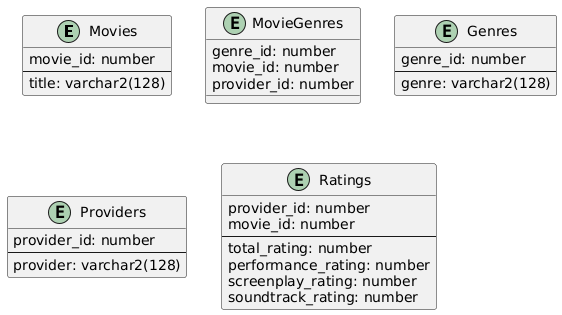
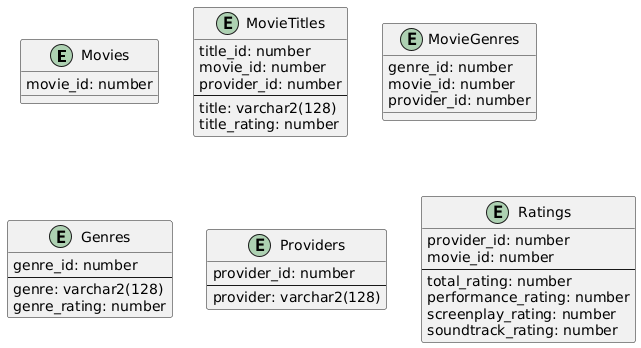
Extending documentation with examples

Changed region(s): [[0.0, 0.5143, 0.9982, 1.0], [0.0302, 0.0, 0.9982, 0.4]]

diff --git a/C-Movie.md b/C-Movie.md
@@ -2,44 +2,46 @@
 Exercise asks to create a design to implement an aggregation platform for movie scores.
 
 ## Requirements
-- Data ingestion needs to be done from multiple Data sources
-- Data is heterogeneous in nature. Each platform defines its own genres and ways of scoring. A normalization process is needed
-- Data sources are offline and online
-- Data needs to be accessible through a REST API
+- Data ingestion needs to be done from multiple Data sources.
+- Data is heterogeneous in nature. Each platform defines its own genres and ways of scoring. A normalization process is needed.
+- Data sources are offline and online.
+- Data needs to be accessible through a REST API.
 
 ## Assumptions
-- Data sources are known and don't have to be dynamically added. In order to add a new data source some measure of coding needs to be done to include the new process
-- Data ingestion happens at intervals defined previously and ingestion tasks can be accommodated to run. No realtime ingestion is done
+- Data sources are known and don't have to be dynamically added. In order to add a new data source some measure of coding needs to be done to include the new process.
+- Data ingestion happens at intervals defined previously and ingestion tasks can be accommodated to run. No realtime ingestion is done.
+- A process exists to score a given title given some parameters as well as the movie categories.
 
 ## Issues to solve
 ### Data Heterogeneousness
 Since data is different for each of the providers, a normalization process is required to finally store the definitive data to a central store.
 
+This normalization process can be done in a streaming fashion by leveraging CDC-enabled processes, or by utilizing streaming services. If this is not desired a scheduled task can also process pending data in batches.
+
 ### Data Ingestion
-Each source needs to define the way data is grabbed and implement a recurrent task that does so and stores the unnormalized data to an intermediate store before proceeding to normalize it.
+Each source needs to define the way data is grabbed and implement a recurrent task that does so and stores the unnormalized data to an intermediate store before proceeding to normalize it. If using a streaming service this intermediate store would be that service.
 
 ### Most Reliable Source
-A matching algorithm needs to be created to select the title and genre 
+The normalizing process can also take care of the scoring of title and genres. Keeping a score in the final relational score allows us to preserve all the data from different providers and only choose the most appropriate when searching for data.
 
 ### Data Serving
-A REST API needs to be created that queries the final curated data to serve it to the final user.
+A REST API needs to be created that queries the final curated data to serve it to the final user. This API will query the final store only, so the data will be eventually consistent with the ingestion process.
 
 ## Design
 The design consist in multiple steps for each of the part of the system.
 
 ### Ingestion phase
 A set of tasks need to be created for each of the different ways of ingesting data. Typically we would need:
-1. A task type that will gather data from a configured REST API
-2. A task type that will fetch a file from a remote location and it's able to process it
+1. A task type that will gather data from a configured REST API.
+2. A task type that will fetch a file from a remote location and it's able to process it.
 
-Each task needs to be configured to run in the proper schedule. If using Python one can use Celery to set it up. Each of these tasks will dump the data in a separate store per provider. For this unstructured and unnormalized data we can use some nosql data store.
+Each task needs to be configured to run in the proper schedule. If using Python one can use Celery to set it up. Each of these tasks will dump the data in a separate store per provider. For this unstructured and unnormalized data we can use a NoSQL data store.
 
 ### Normalization phase
 An ETL process is triggered on data being available on the providers' stores that take the data, sanitize it and load it to our central storage.
 
-This process also takes care of matching each element to a current element in the database and deciding whether the title is more reliable than the current one, overriding it, and whether the genres provided by the source are more reliable than the ones chosen right now and whether that needs amended in the database.
+This process also takes care of matching each element to a current element in the database and scores the title and genres based on the scoring algorithm aforementioned. The data is then stored in the final data store created using teh following schema.
 
-Proposed schema:
 ![Schema](schema.png)
 
 Ratings table is normalized using the c-rating algorithm.
@@ -56,4 +58,17 @@ Such query can include genres, as defined in the Genres table as well as by titl
 #### Caching
 Since the API layer will eventually query the application database and aggregate the scores per provider a high number of times per second it is advised that a caching layer is implemented.
 
-Since flexible queries may be required, an Elasticache layer may be advisable, where an index can be updated with the pre-calculated total score per movie, as well as its genres.
+Since flexible queries may be required, an Elasticache layer may be advisable, where an index can be updated with the pre-calculated total score per movie, as well as its genres and most appropriate title.
+
+## Example HLD for AWS
+Below is an example of how the architecture could look like utilizing AWS serverless resources.
+
+![AWS Architecture](aws.png)
+
+The ingestion tasks are orchestrated by EventBridge schedules which run Lambda functions. Each type of ingestion is a parametrized Lambda function that can be reused across multiple providers.
+
+The tasks would fetch data from source and dump it in its respective DynamoDB table per provider.
+
+Each change in those tables would be streamed using DynamoDB streams to a different Lambda function that will run the normalization process and the scoring of titles/genres and generation of c-rating. This process will generate the structured data that will be stored in an Aurora DB instance.
+
+On the client side, an API Gateway will expose the REST GET method that will invoke a Lambda function that normalizes the query parameter-based search and looks it up in an Elasticache resource. If it's a cache miss it will go to the database to find it store the resulting data in the cache for future reference.
